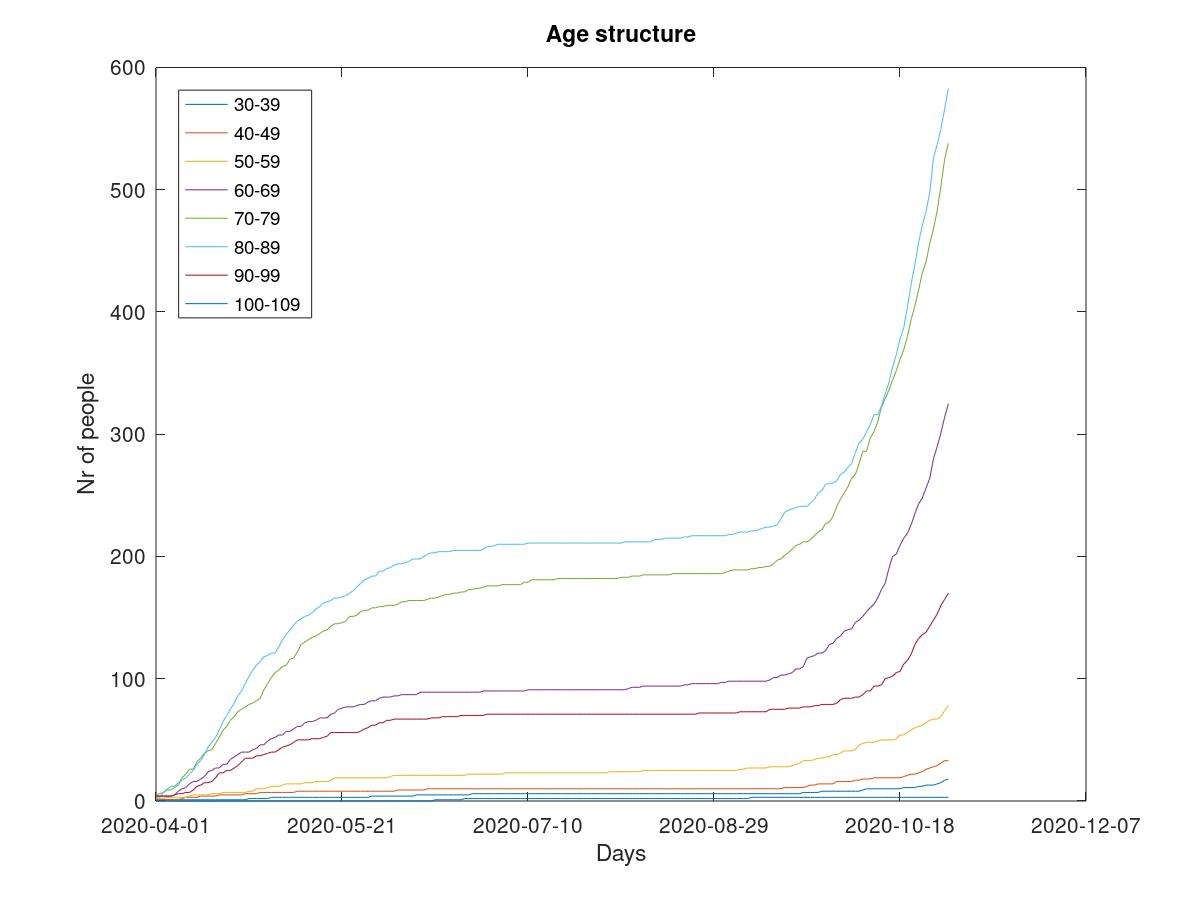
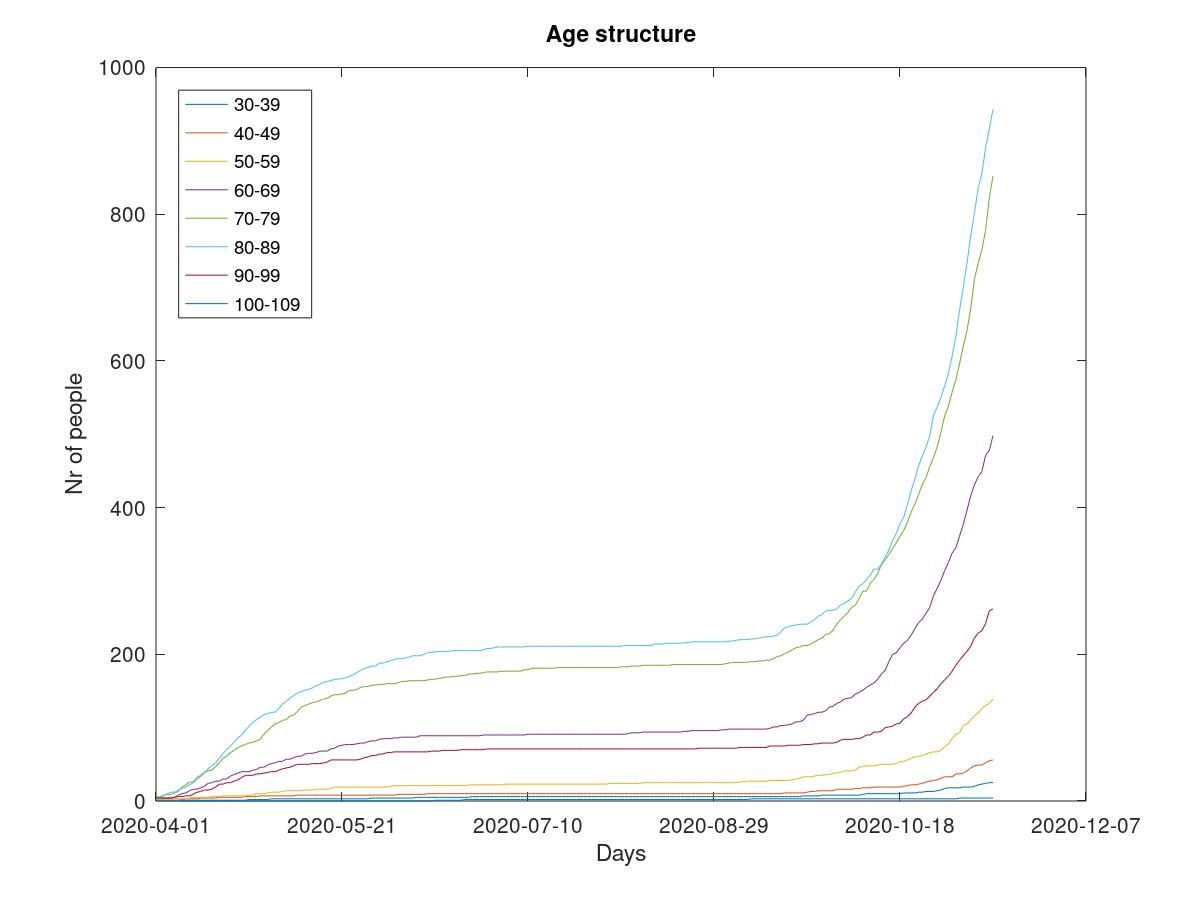
updated 2020-11-13

diff --git a/index.html b/index.html
@@ -5,7 +5,7 @@ The aim of this project to help on you learing the Matlab script language quickl
 You can download octave (free) from : <a href=https://www.gnu.org/software/octave/download.html>https://www.gnu.org/software/octave/download.html</A>
 <BR>
 Input data come from this <a href=https://hu.wikipedia.org/wiki/2020-as_COVID%E2%80%9319-koronav%C3%ADrus-j%C3%A1rv%C3%A1ny_Magyarorsz%C3%A1gon>wikipedia link</a>,
-updated on 2020-11-01. <br>
+updated on 2020-11-13. <br>
 Day zero in curves is 2020-03-04 when the first 2 people tested positive to Covid19 in Budapest. <Br>
 <BR>
 Other curves:

diff --git a/README.md b/README.md
@@ -4,7 +4,7 @@ Matlab / Octave example project using Hungarian Covid19 raw datas
 The aim of this project to help on you learing the Matlab script language quickly.
 
 Input data come from this [wikipedia link](https://hu.wikipedia.org/wiki/2020-as_COVID%E2%80%9319-koronav%C3%ADrus-j%C3%A1rv%C3%A1ny_Magyarorsz%C3%A1gon),
-updated on 2020-11-01. <br>
+updated on 2020-11-13. <br>
 Day zero in curves is 2020-03-04 when the first 2 people tested positive to Covid19 in Budapest. <Br>
 Other curves:
 [Trajectory](https://aatishb.com/covidtrends/?location=Australia&location=Brazil&location=Canada&location=China&location=France&location=Germany&location=Hong+Kong&location=Hungary&location=India&location=Italy&location=Japan&location=Russia&location=Singapore&location=South+Korea&location=Spain&location=Taiwan&location=Turkey&location=US&location=United+Kingdom) |
